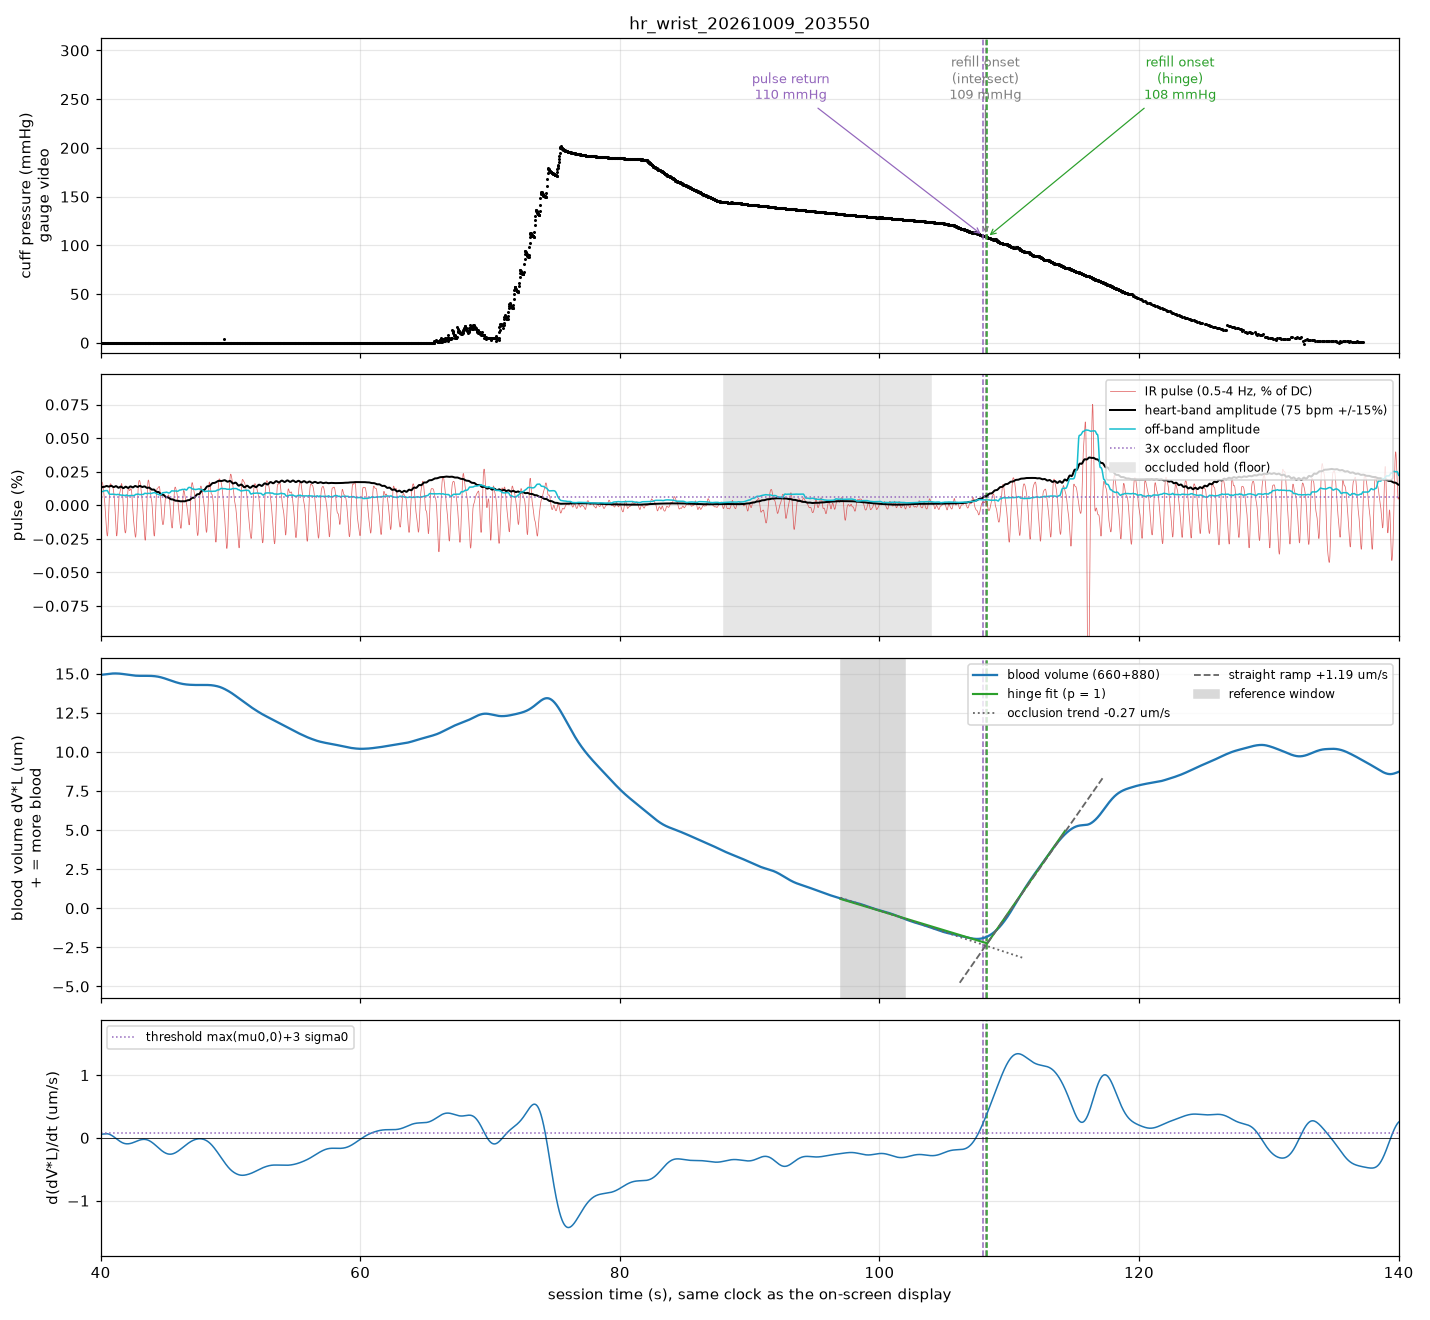
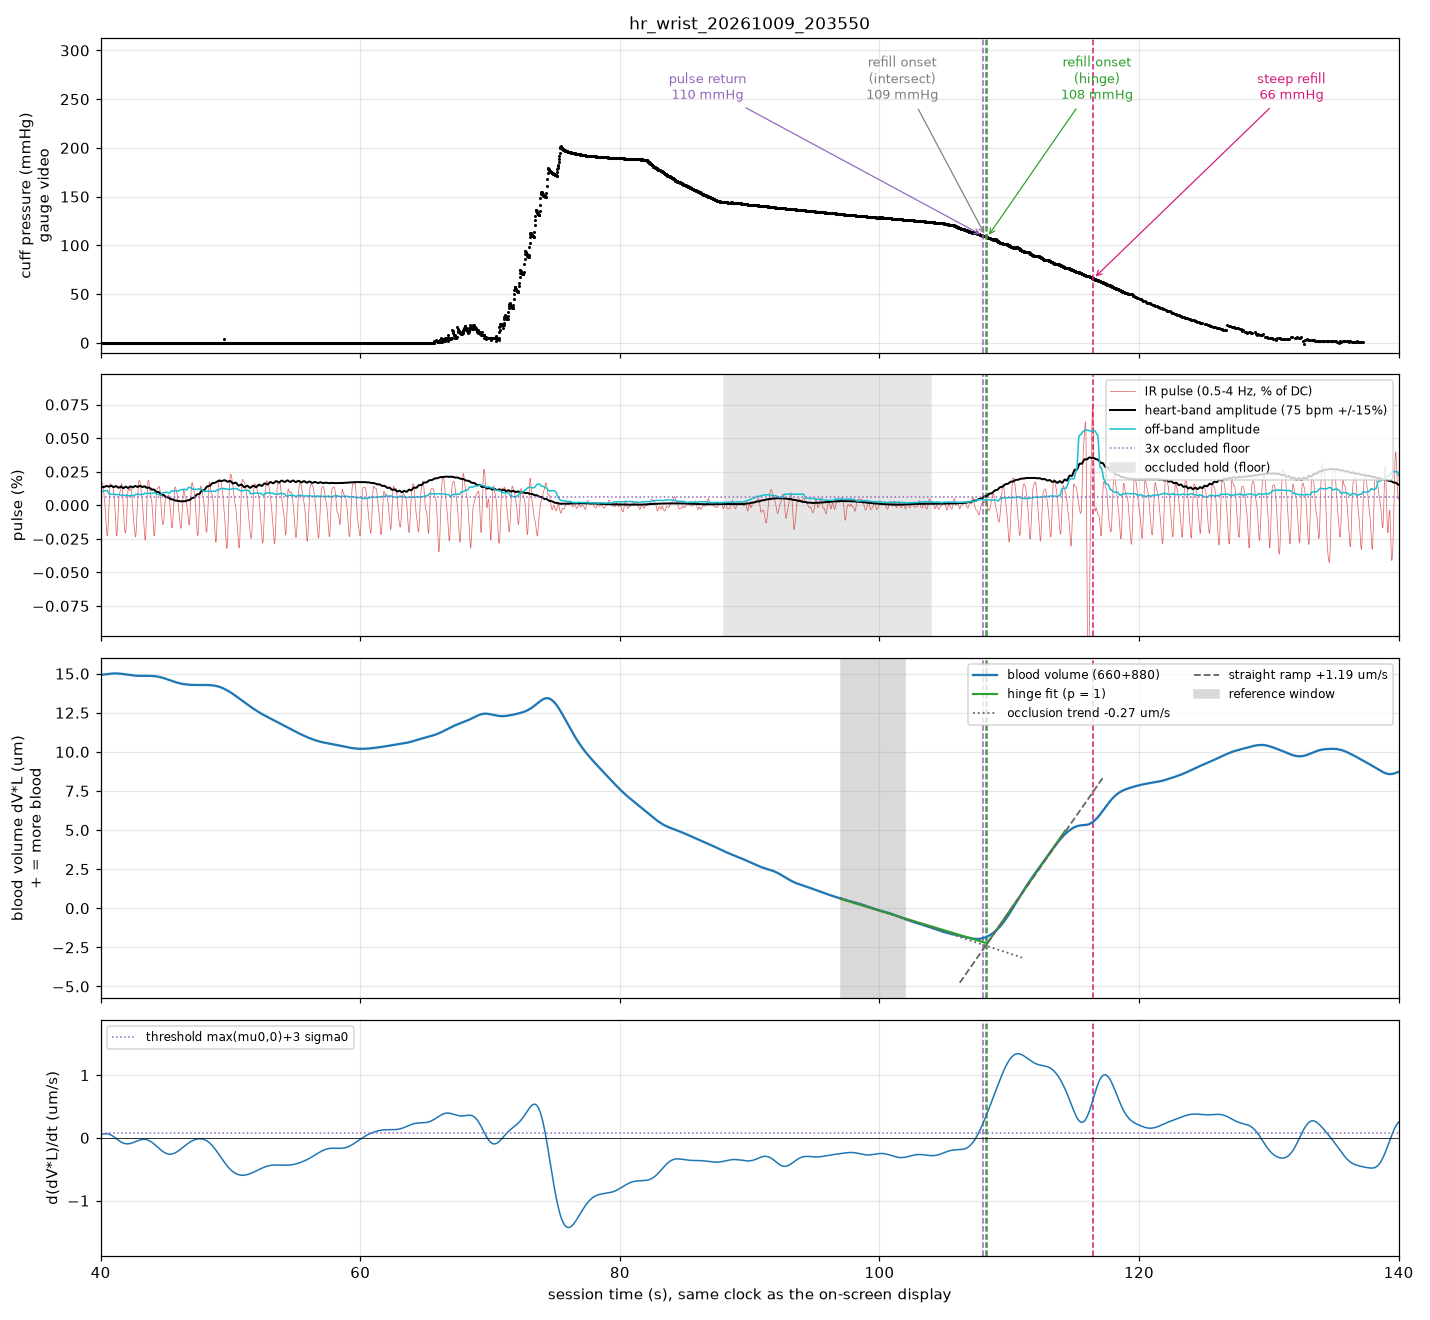
Steep refill marker in cuff_trial.py (D44)
Peak of d2(dV*L)/dt2 within 20 s of the refill onset. On the six runs with
reference BP it tracked MAP better than any other marker (r +0.82,
+5.1 +/- 7.4 mmHg; +0.9 +/- 1.9 at 3 cm). Provisional: the definition was
chosen on test25-27. Trial figures regenerated; six-run summary figures
added to docs/figures.

diff --git a/host/cuff_trial.py b/host/cuff_trial.py
@@ -1,5 +1,5 @@
 #!/usr/bin/env python3
-"""Cuff trial: pulse return, refill onset and cuff pressure in one figure (D43).
+"""Cuff trial: pulse return, refill onset and cuff pressure in one figure (D43, D44).
 
     python cuff_trial.py ../data/hr_wrist_20261017_145914_test6.csv
     python cuff_trial.py <csv> --deflation 64 --hold 50,64      # override windows
@@ -31,6 +31,8 @@ Markers, each with the cuff pressure at that moment:
                         (mapquest/pulse_return.py)
     refill onset        corner of the trend-then-rising fit (hinge, default)
     refill, intersect   straight ramp extrapolated to the sloped baseline (D39)
+    steep refill        where the refill accelerates most, within 20 s of the
+                        onset; tracked MAP on the slow trials so far (D44)
 
 With reference BP in the header (D42) each is also reported against systolic
 and MAP. Saves ``<name>_cuff.png`` next to the recording.
@@ -51,10 +53,11 @@ sys.path.insert(0, str(Path(__file__).resolve().parent))
 from mapquest.cuff import REF_S, Windows, windows_from_pressure  # noqa: E402
 from mapquest.io import load_csv  # noqa: E402
 from mapquest.mprls import counts_to_mmhg  # noqa: E402
-from mapquest.pipeline import PipelineConfig, derive  # noqa: E402
+from mapquest.pipeline import PipelineConfig, derive, steep_refill  # noqa: E402
 from mapquest import pulse_return  # noqa: E402
 
 UNCUFFED_MMHG = 8.0
+STEEP_SEARCH_S = 20.0
 WINDOWS_FILE = Path(__file__).resolve().parent.parent / "data" / "cuff_windows.json"
 
 
@@ -153,10 +156,15 @@ def analyse(trial: Trial, w: Windows) -> dict:
     uncuffed = inside & (p_t < UNCUFFED_MMHG) & ((t < w.inflation) | (t > w.release))
     ir = trial.channels["ir"] - float(trial.dark.get("ir", 0.0))
     pr = pulse_return.detect(t, ir, trial.fs, w.hold, w.deflation, uncuffed)
+    onset = next((x for x in (d.onset_time_hinge, d.onset_time_sloped, d.threshold_time)
+                  if x is not None), None)
+    steep = (steep_refill(d.ddv, t, onset, min(onset + STEEP_SEARCH_S, w.release))
+             if onset is not None else None)
     return {"derivation": d, "pulse": pr,
             "markers": [("pulse return", pr.t_return if pr else None),
                         ("refill onset (hinge)", d.onset_time_hinge),
-                        ("refill onset (intersect)", d.onset_time_sloped)]}
+                        ("refill onset (intersect)", d.onset_time_sloped),
+                        ("steep refill", steep)]}
 
 
 def report(trial: Trial, w: Windows, res: dict) -> None:
@@ -200,7 +208,7 @@ def figure(trial: Trial, w: Windows, res: dict, out: Path, x=None, motion=(),
     x0, x1 = x or w.x or (max(t[0], w.inflation - 5.0), min(t[-1], w.release + 5.0))
     sel = (t >= x0) & (t <= x1)
     colors = {"pulse return": "tab:purple", "refill onset (hinge)": "tab:green",
-              "refill onset (intersect)": "tab:gray"}
+              "refill onset (intersect)": "tab:gray", "steep refill": "#d6197a"}
     ev = sorted([(n, tt, colors[n]) for n, tt in res["markers"] if tt is not None],
                 key=lambda e: e[1])
 

diff --git a/host/mapquest/pipeline.py b/host/mapquest/pipeline.py
@@ -417,6 +417,23 @@ def hinge_onset(
     return best[1], best[2], best[3]
 
 
+def steep_refill(ddv: np.ndarray, t: np.ndarray, start: float, end: float) -> float | None:
+    """Where the refill accelerates most: the peak of d2(dV*L)/dt2 between
+    ``start`` (the refill onset) and ``end`` (D44).
+
+    In a pulsatile arm blood starts to trickle past the cuff below systolic,
+    but inflow only surges once the cuff is below the pressure the artery
+    sits at for most of the beat. On the six cuff trials with reference BP
+    this point tracked MAP: within 3 mmHg on all four slow deflations, high
+    by 12-17 mmHg on two faster ones with the sensor 7 cm from the cuff.
+    """
+    i = (t >= start) & (t <= end)
+    if i.sum() < 5:
+        return None
+    acc = np.gradient(ddv[i], t[i])
+    return float(t[i][int(np.argmax(acc))])
+
+
 def pulsatility_rms(x: np.ndarray, fs: float, band: tuple[float, float]) -> float:
     """RMS of the cardiac band during the reference window (SPEC 5.1 step 12).
 

diff --git a/tests/test_pipeline.py b/tests/test_pipeline.py
@@ -353,3 +353,16 @@ def test_hinge_with_pulses_on_curved_fill():
     assert abs(err) <= 2.5, f"hinge error {err:+.2f} mmHg with pulses"
     sloped = float(np.interp(d.onset_time_sloped, t, p)) - args.map
     assert abs(sloped) > 3 * abs(err)
+
+
+def test_steep_refill_finds_the_surge():
+    """D44: a slow trickle from 20 s, then a surge from 35 s."""
+    from scipy.ndimage import gaussian_filter1d
+    from mapquest.pipeline import steep_refill
+    fs = 100.0
+    t = np.arange(0, 60, 1 / fs)
+    dv = 0.4 * np.clip(t - 20, 0, None) + 2.6 * np.clip(t - 35, 0, None)
+    dv = gaussian_filter1d(dv, 0.8 * fs)
+    ddv = np.gradient(dv, t)
+    assert abs(steep_refill(ddv, t, 20.0, 40.0) - 35.0) < 0.3
+    assert steep_refill(ddv, t, 20.0, 20.01) is None

diff --git a/docs/decisions.md b/docs/decisions.md
@@ -1339,6 +1339,51 @@ synthetic data and four reference trials, not tuned further.
 
 ---
 
+## D44 — "Steep refill" marker: where the refill accelerates most
+
+**Status:** provisional · 2026-10-17
+
+**Why.** On test25–27 the blood-volume refill came in two stages: a gentle rise starting
+near systolic, then a surge. The surge began within 3 mmHg of the reference MAP each
+time. In a pulsatile arm that is what you would expect. Blood starts to trickle past the
+cuff once it is below systolic, but inflow only surges once the cuff is below the
+pressure the artery sits at for most of the beat.
+
+**What.** `pipeline.steep_refill`: the peak of d²(ΔV·L)/dt² between the refill onset
+(hinge, else intersect, else threshold crossing) and 20 s later, or the cuff release if
+that comes first. `cuff_trial.py` reports it as a fourth marker against systolic and MAP,
+and draws it in magenta.
+
+**Evidence: the six runs with reference BP** (`docs/figures/map-markers-6-runs.png`,
+`docs/figures/steep-refill-vs-map.png`):
+
+| Run | Sensor | Mean deflation | Steep refill | Ref MAP | Error |
+|---|---|---|---|---|---|
+| 10.16.26 | 7 cm | 2.1 mmHg/s | 109.2 | 92.3 | +16.9 |
+| test3 | 7 cm | 2.8 | 87.7 | 88.3 | −0.6 |
+| test4 | 7 cm | 4.0 | 109.7 | 98.0 | +11.7 |
+| test25 | 3 cm | 1.9 | 87.8 | 87.0 | +0.8 |
+| test26 | 3 cm | 2.1 | 88.9 | 86.0 | +2.9 |
+| test27 | 3 cm | 1.9 | 91.8 | 92.7 | −0.9 |
+
+Across all six: r = +0.82 against MAP, error +5.1 ± 7.4 mmHg. That beats every other
+marker (cuff oscillation maximum +6.0 ± 10.0, intersect +11.6 ± 6.0, pulse return
++15.1 ± 8.9, hinge +17.3 ± 7.8). At 3 cm: +0.9 ± 1.9. test6 (3 cm, not in the six)
+reads 84.4 against 87.
+
+**Why provisional.**
+- The definition was chosen after seeing test25–27, so those runs fit it partly by
+  construction. The 7 cm runs are the only independent check, and only one of three
+  agreed.
+- The 7 cm runs differ from the 3 cm ones in sensor distance, day and deflation speed
+  all at once. Slow runs at 7 cm would separate those.
+- The reference MAPs span only 86–98 mmHg, and they come from the one-third rule, not
+  a measurement.
+- On the older trials without reference BP, a few values (66–71 mmHg on 2026-10-09,
+  10-10 13:45 and 10-11 22:06) look more like a late surge than MAP.
+
+---
+
 <a id="o1"></a>
 ## O1 — Red channel drift: cause and mitigation
 

diff --git a/README.md b/README.md
@@ -183,10 +183,11 @@ python cuff_trial.py ../data/hr_wrist_20261017_145914_test6.csv
 python cuff_trial.py <csv> --deflation 64 --hold 50,64 --motion 80,84   # override windows
 ```
 
-Writes `<recording>_cuff.png` and prints three return-of-flow markers with the cuff pressure
-at each, against the reference BP if it was entered: **pulse return** (the heartbeat back
-above three times its occluded ripple), **refill onset (hinge)** and **refill onset
-(intersect)**. Windows come from the pressure trace, or from `data/cuff_windows.json` for
+Writes `<recording>_cuff.png` and prints four markers with the cuff pressure at each,
+against the reference BP if it was entered: **pulse return** (the heartbeat back above three
+times its occluded ripple), **refill onset (hinge)**, **refill onset (intersect)**, and
+**steep refill**, where the refill accelerates most. Steep refill has tracked MAP on the slow
+trials so far (D44, provisional). Windows come from the pressure trace, or from `data/cuff_windows.json` for
 trials already checked by hand. Check them on the figure. Details in D43.
 
 ## Cuff pressure sensor test (MPRLS)
